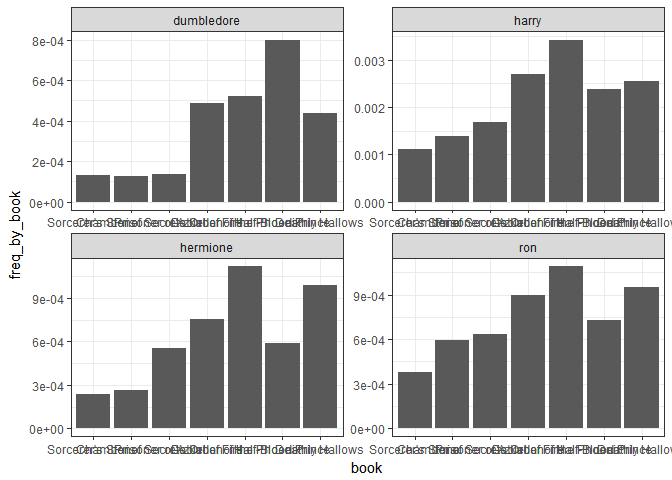
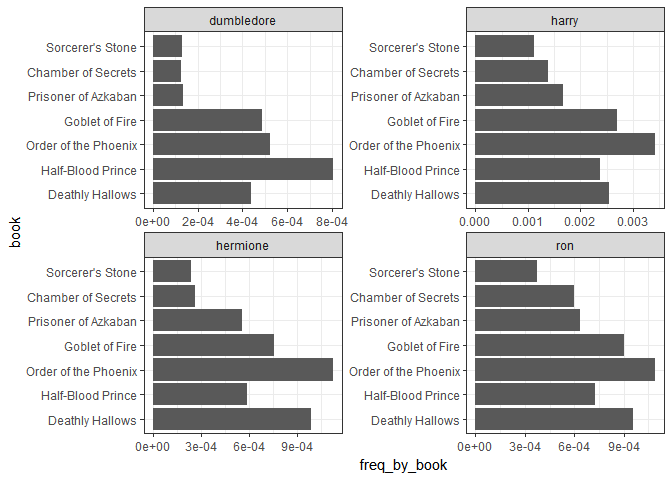
markdown

diff --git a/Harry_Potter_Text_Analysis.md b/Harry_Potter_Text_Analysis.md
@@ -59,6 +59,8 @@ all_books_raw %>%
   ggplot(aes(x = book, y = freq_by_book)) + 
   geom_bar(stat = "identity") +
   facet_wrap(~word,  scales = "free") +
+  scale_x_discrete(limits = rev(levels(all_books_raw$book))) + 
+  coord_flip() +
   theme_bw()
 ```
 
